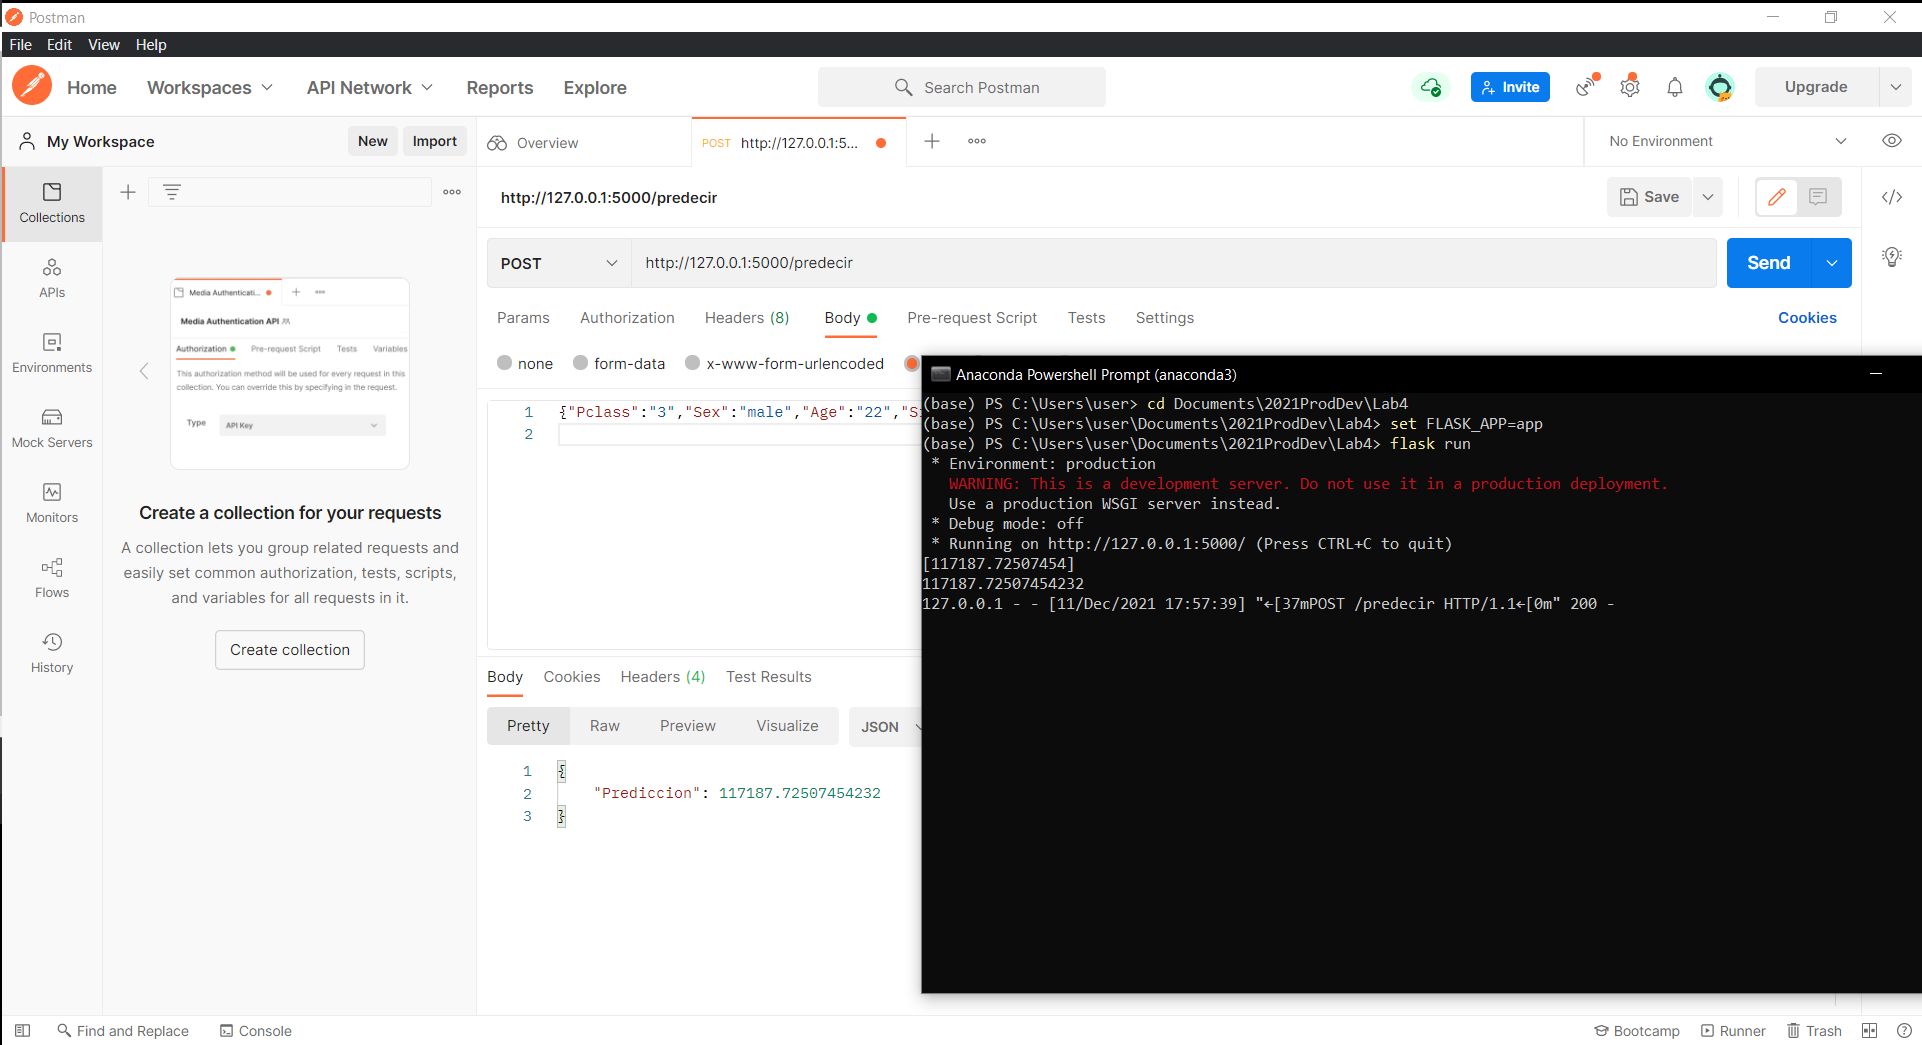
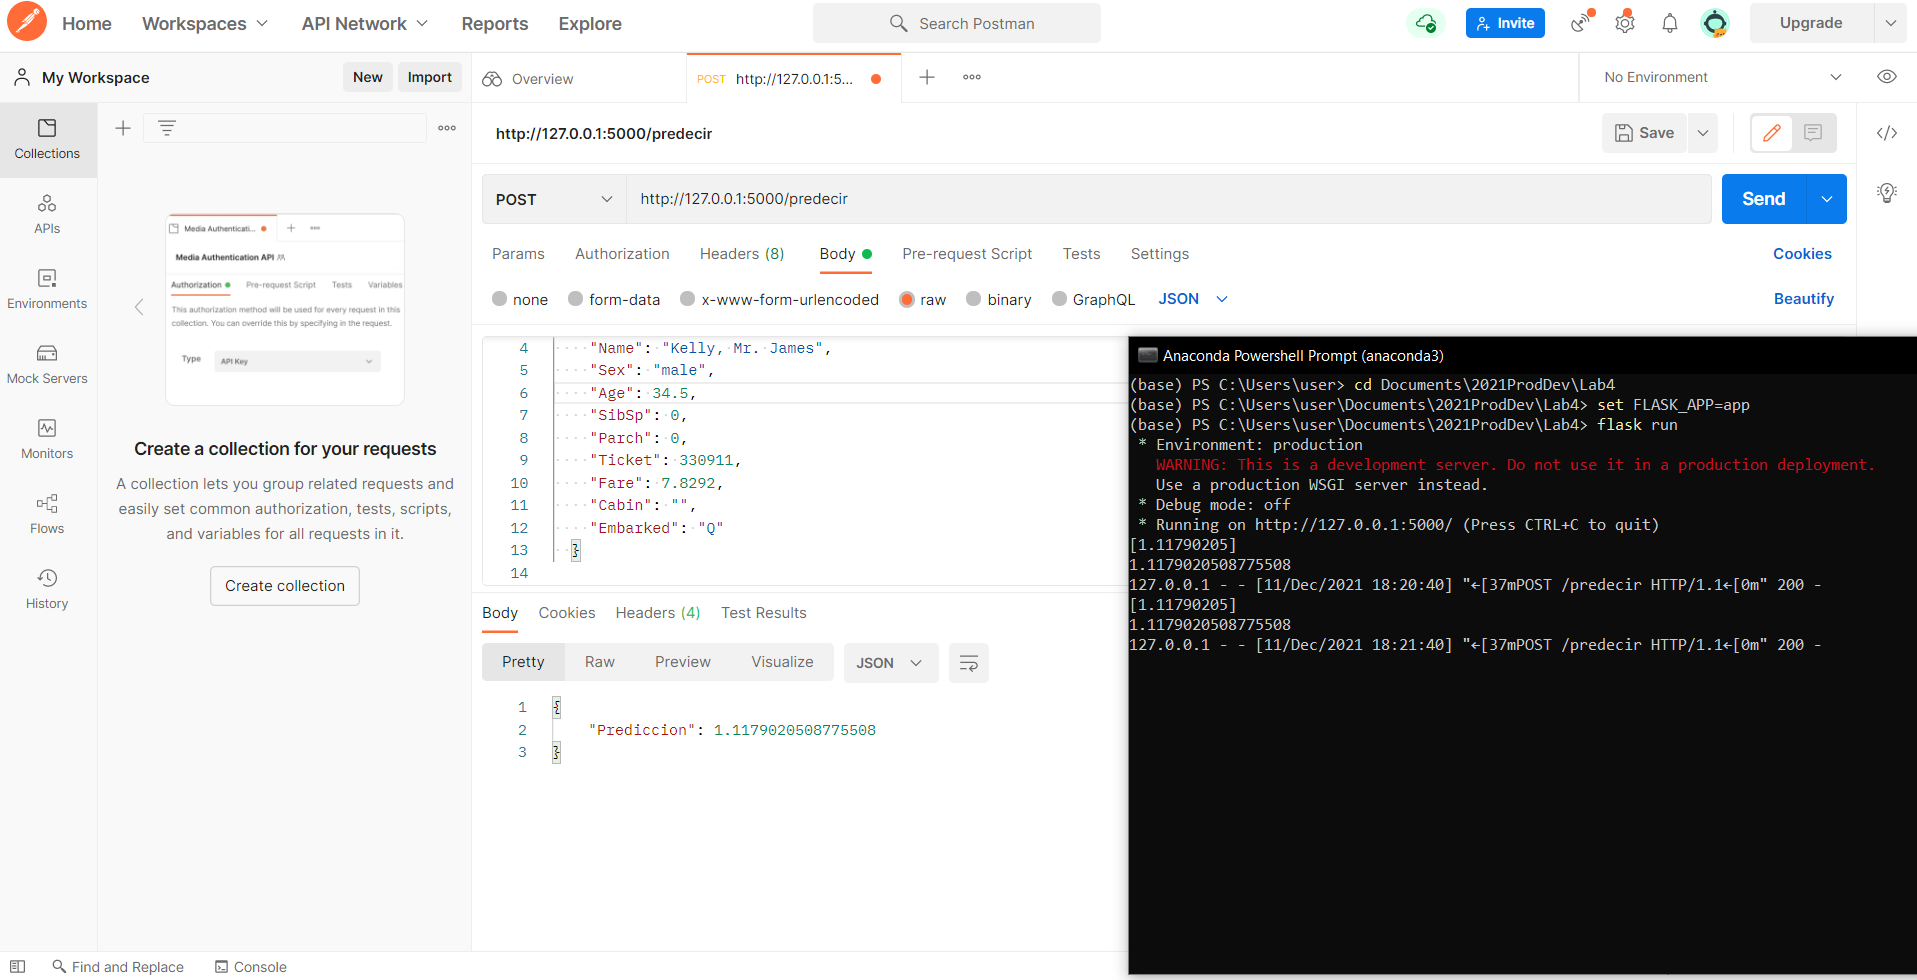
V2
V2 - Ajustes

diff --git a/config.py b/config.py
@@ -1,21 +1,26 @@
 #Variables categoricas con NA
-CATEGORICAL_VARS_WITH_NA_MISSING = ['SibSp', 'Parch','Pclass']
+CATEGORICAL_VARS_WITH_NA_FREQUENT = []
+
+#Variable categoricas con NA pero indicador de Missing
+CATEGORICAL_VARS_WITH_NA_MISSING = []
+
 
 #Variables numéricas con NA
 NUMERICAL_VARS_WITH_NA = ['Age']
 
 
-#Varibles para transformación logaritmia
-NUMERICALS_LOG_VARS = ['Fare']
-
-#Variables para hacer mapeo categorico por codificación ordinal
-SEX_VARS = ['Sex']
+#Variables para binarización por sesgo fuerte
+BINARIZE_VARS = ['Fare']
 
 #Variables categoricas a codificar sin ordinalidad
-#CATEGORICAL_VARS = ['Cabin', 'Embarked', 'SibSp', 'Parch', 'Pclass']
-
-#Mapeos de variables categoricas
-SEX_MAPPINGS = {'male':1, 'female':0}
+CATEGORICAL_VARS = ['Sex']
 
 #Variables seleccionadas según análisis de Lasso
-FEATURES = ['Sex', 'Age', 'Fare','SibSp', 'Parch','Pclass']
+FEATURES = [
+    'Pclass',
+    'Sex',  
+    'Age', 
+    'SibSp', 
+    'Parch', 
+    'Fare',
+]
